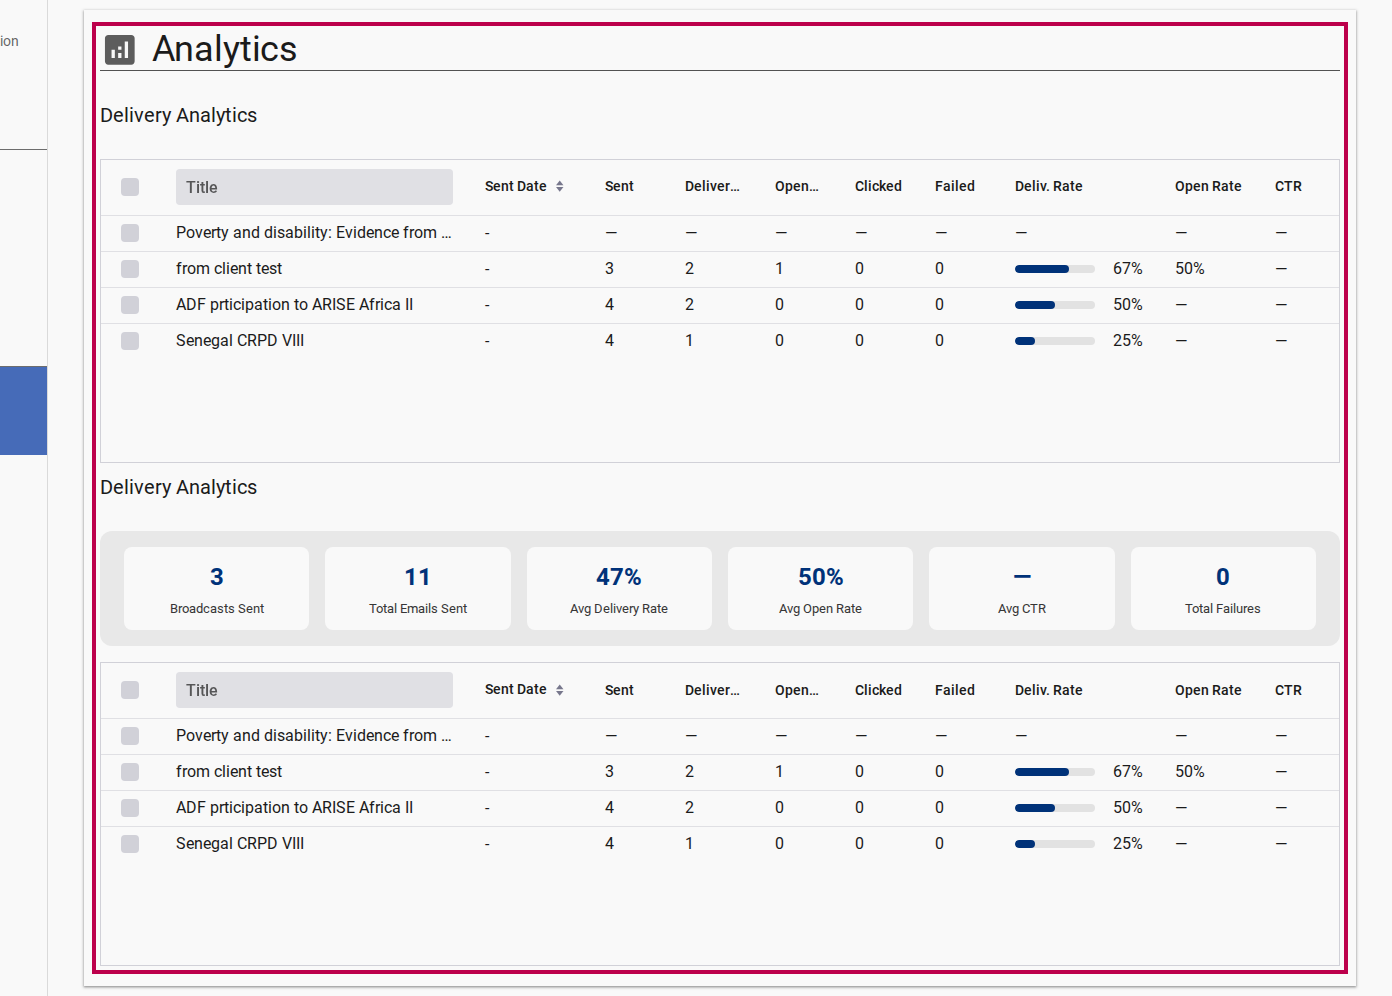
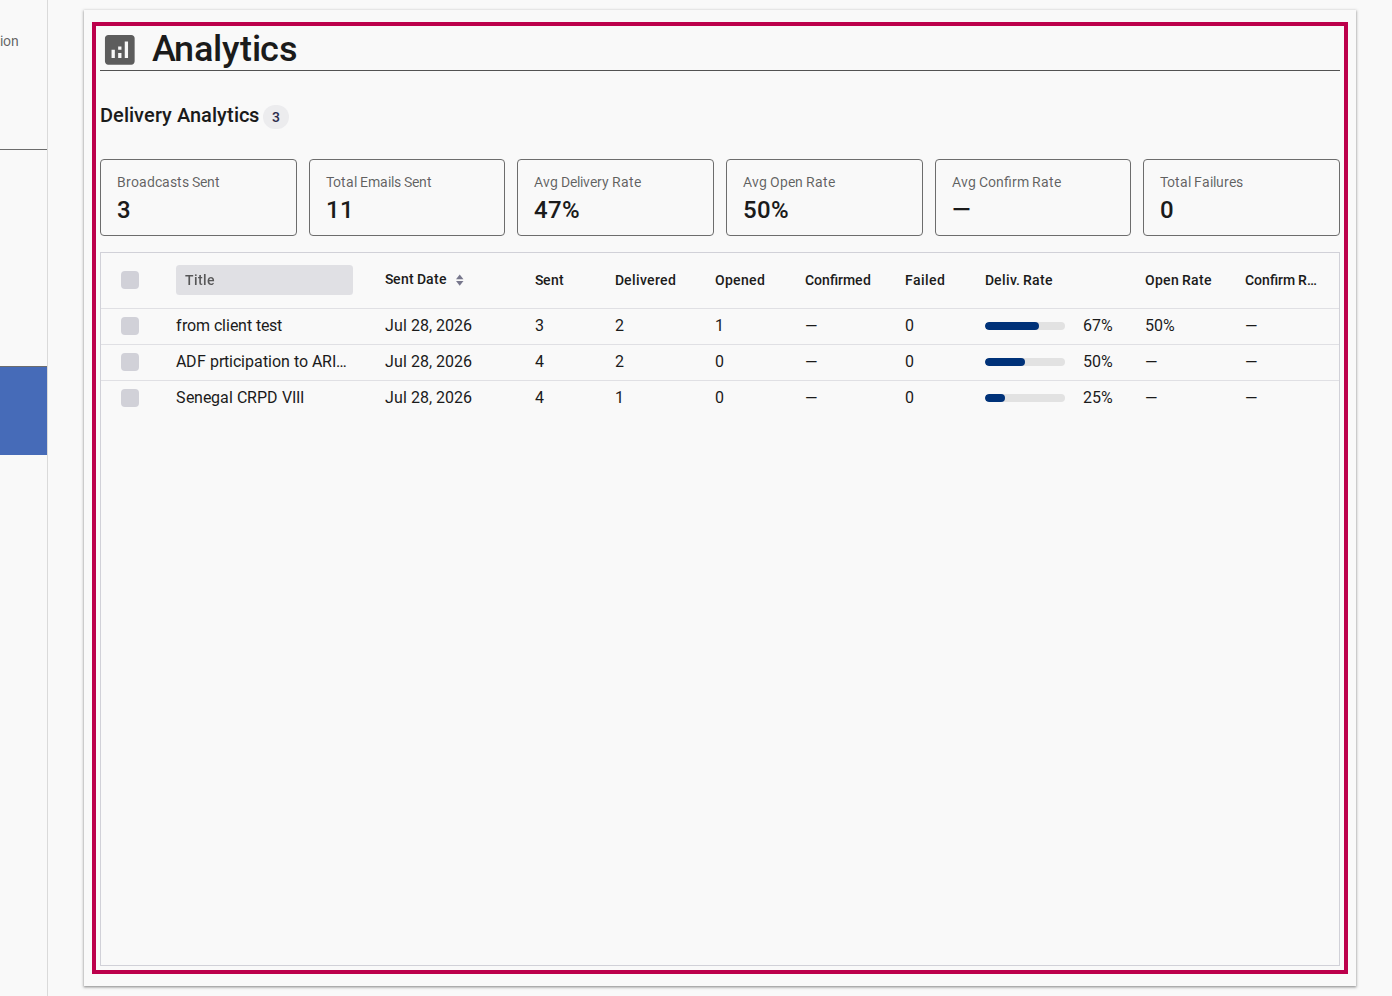
docs(listserv): document confirm-receipt links and analytics
Explain the per-broadcast confirmation option, the Confirmed and Confirm Rate
columns, the open-vs-confirmed distinction, and the staff-only list of who
confirmed. Refresh the admin reference tables to match the current dashboard.

diff --git a/src/listserv/how-to/analyzing-performance.spec.ts b/src/listserv/how-to/analyzing-performance.spec.ts
@@ -1,4 +1,4 @@
-import { Locator, test } from '@playwright/test'
+import { expect, Locator, Page, test } from '@playwright/test'
 import { Context } from '../../Context.ts'
 import { initializePage } from '../../utils/initializePage.ts'
 import { baseUrl, listservAppPath } from '../reference/constants.ts'
@@ -7,16 +7,25 @@ const mainPath = 'docs/app/listserv/how-to'
 
 let locator: Locator
 
-test.describe('Listserv How-To: Analyzing Broadcast Performance', () => {
+/**
+ * The grid reads its rows from Firestore after the route renders, so wait for
+ * a seed row instead of a fixed delay. The assertion uses the configured
+ * 5-second expect timeout.
+ */
+const waitForRows = async (page: Page) => {
+  await expect(page.getByRole('gridcell', { name: /from client test/ }).first()).toBeVisible()
+  await page.waitForTimeout(500)
+}
 
+test.describe('Listserv How-To: Analyzing Broadcast Performance', () => {
   test('How to view the analytics dashboard', async ({ page }) => {
     const context = new Context(mainPath, page)
     context.setName('viewing-analytics-dashboard')
     await initializePage(page, baseUrl, `${listservAppPath}/admin/analytics`)
-    await page.waitForTimeout(500)
+    await waitForRows(page)
 
     // Step 1: View the aggregate summary header
-    locator = page.locator('listserv-admin-analytics .aggregate-header')
+    locator = page.locator('listserv-admin-analytics .aggregate-summary')
     await context.annotatedScreenshot(locator, 'step-1-aggregate-summary')
 
     // Step 2: View the per-broadcast delivery table
@@ -28,7 +37,7 @@ test.describe('Listserv How-To: Analyzing Broadcast Performance', () => {
     const context = new Context(mainPath, page)
     context.setName('viewing-broadcast-list-stats')
     await initializePage(page, baseUrl, `${listservAppPath}/admin/broadcast`)
-    await page.waitForTimeout(500)
+    await waitForRows(page)
 
     // Step 1: View the broadcast list with delivery stat columns
     locator = page.locator('listserv-admin-broadcast')
@@ -39,28 +48,24 @@ test.describe('Listserv How-To: Analyzing Broadcast Performance', () => {
     const context = new Context(mainPath, page)
     context.setName('viewing-delivery-stats')
     await initializePage(page, baseUrl, `${listservAppPath}/admin/broadcast`)
-    await page.waitForTimeout(500)
+    await waitForRows(page)
 
-    // Step 1: Click on a sent broadcast to view its detail
-    const gridCell = page.locator('vaadin-grid-cell-content').first()
+    // Step 1: Open a sent broadcast from its title cell
+    const gridCell = page.getByRole('gridcell', { name: /from client test/ }).first()
     await context.annotatedScreenshot(gridCell, 'step-1-click-broadcast')
-    await gridCell.click()
-    await page.waitForTimeout(500)
+    await gridCell.dblclick()
+    await page.waitForTimeout(1500)
 
     // Step 2: View the broadcast detail with analytics
     locator = page.locator('listserv-broadcast-detail')
     await context.annotatedScreenshot(locator, 'step-2-broadcast-detail-analytics')
-
-    // Step 3: View lifecycle state and statistics
-    locator = page.locator('actor-actions')
-    await context.annotatedScreenshot(locator, 'step-3-broadcast-lifecycle-state')
   })
 
   test('How to view aggregate delivery metrics', async ({ page }) => {
     const context = new Context(mainPath, page)
     context.setName('viewing-aggregate-metrics')
     await initializePage(page, baseUrl, `${listservAppPath}/admin/analytics`)
-    await page.waitForTimeout(500)
+    await waitForRows(page)
 
     // Step 1: Navigate to the analytics dashboard
     locator = page.locator('listserv-admin-analytics')

diff --git a/docs/app/listserv/how-to/analyzing-broadcast-performance.md b/docs/app/listserv/how-to/analyzing-broadcast-performance.md
@@ -1,43 +1,92 @@
 ---
-description: How administrators view per-broadcast analytics including delivery rates, open rates, response counts, and language segmentation.
+description: How channel administrators read delivery, open, confirmation and failure metrics for sent broadcasts, and see who confirmed receipt.
 ---
 
 # Analyzing Broadcast Performance
 
-Per-broadcast analytics enable channel administrators to track subscriber engagement, verify delivery health, and compare language segment performance.
+The analytics page reports, for every sent broadcast, how many addresses were targeted, delivered, opened and confirmed, and how many never received the message. Use it to check delivery health and to see how many recipients acted on the message.
 
 ---
 
-## Step 1: Open Broadcast Analytics
+## Step 1: Open the Analytics Page
 
-1. Navigate to **Admin** > **Broadcasts**.
-2. Locate a broadcast with status `sent`.
-3. Click the broadcast row to expand its details and analytics panel.
+1. Sign in to the Listserv application.
+2. Select **Admin** > **Analytics**.
+
+The page lists every broadcast that reached the `sent` state in the current channel. Drafts, rejected broadcasts and broadcasts still in moderation are not listed.
 
 <figure>
-  <img src="./assets/viewing-broadcast-list-stats/step-1-broadcasts-grid-with-stats.png" alt="Broadcast Analytics Grid">
-  <figcaption>Broadcast Grid showing sent status and response metrics</figcaption>
+  <img src="./assets/viewing-aggregate-metrics/step-1-analytics-dashboard.png" alt="Analytics page with summary tiles and a row per sent broadcast">
+  <figcaption>The channel analytics page: summary tiles and one row per sent broadcast. Confirmed and Confirm Rate show — because none of these broadcasts asked for confirmation.</figcaption>
+</figure>
+
+::: info An open is not a read
+The **Opened** figure comes from a tracking image. Mail servers, security scanners and privacy proxies fetch that image without a person seeing the message, and email clients may prefetch it. A high open count is therefore an upper bound, not proof of reading. **Confirmed** is the human signal: a recipient pressed a button on a page reached from the email.
+:::
+
+---
+
+## Step 2: Read the Summary
+
+The summary tiles at the top of the page summarize every listed broadcast:
+
+| Tile | What it measures |
+| --- | --- |
+| **Broadcasts Sent** | Number of sent broadcasts in the channel. |
+| **Total Emails Sent** | Sum of the unique subscriber addresses targeted across those broadcasts. |
+| **Avg Delivery Rate** | Average of `delivered / sent` across broadcasts with data. |
+| **Avg Open Rate** | Average of `opened / delivered`. Image fetches count. |
+| **Avg Confirm Rate** | Average of `confirmed / delivered`, over the broadcasts that asked for confirmation. |
+| **Total Failures** | Recipients that never received the message, after the provider's retries. |
+
+<figure>
+  <img src="./assets/viewing-analytics-dashboard/step-1-aggregate-summary.png" alt="Analytics summary tiles including Avg Confirm Rate">
+  <figcaption>The summary tiles. A dash for Avg Confirm Rate means no sent broadcast in this channel has asked for confirmation yet.</figcaption>
 </figure>
 
 ---
 
-## Step 2: Key Performance Indicators (KPIs)
+## Step 3: Read a Broadcast Row
 
-The performance dashboard reports real-time metrics updated via Mailgun webhooks:
+| Column | What it shows |
+| --- | --- |
+| **Sent Date** | When the broadcast was dispatched. |
+| **Sent** | Unique subscriber addresses targeted at dispatch. It is not a count of provider delivery events. |
+| **Delivered** | Addresses whose mail server accepted the message. Delivery is not the same as reaching the inbox: a message can be filed as spam or quarantined afterwards. |
+| **Opened** | Addresses whose mail client fetched the tracking image, counted once per recipient. Scanners and proxies fetch it too. |
+| **Confirmed** | Addresses that pressed the confirm-receipt link. Shown only for broadcasts that asked for confirmation; **—** otherwise. |
+| **Failed** | Addresses that never received the message. Temporary retries that eventually delivered are not counted. |
+| **Deliv. Rate** | `delivered / sent`. |
+| **Open Rate** | `opened / delivered`. |
+| **Confirm Rate** | `confirmed / delivered`, for broadcasts that asked for confirmation; **—** otherwise. |
+
+A confirm rate much lower than the open rate is expected. The two columns answer different questions: the open rate is a rough upper bound, while the confirm rate is a floor on the number of people who saw the message.
+
+---
+
+## Step 4: See Who Confirmed
+
+For a broadcast that asked for confirmation, expand its row. The detail lists everyone who pressed the button, with their name, address and confirmation time, under a header such as "9 confirmed of 13 delivered".
+
+Only channel owners and editors can read the confirmation list.
+
+::: info Confirmation is optional per broadcast
+The sender ticks **Add a 'confirm you received this' link** while composing or editing a broadcast. Broadcasts sent before the feature, and broadcasts that did not opt in, have no link, so Confirmed and Confirm Rate show **—** for them.
+:::
+
+---
+
+## Step 5: Review Replies
+
+Replies to a broadcast are threaded under it and counted in the **Responses** column on **Admin** > **Broadcasts**. Expanding the row there shows the full response thread. A reply is a stronger signal than a confirmation, but only a small share of recipients reply.
 
 <figure>
-  <img src="./assets/viewing-aggregate-metrics/step-1-analytics-dashboard.png" alt="Channel Analytics Summary Dashboard">
-  <figcaption>Aggregate channel analytics dashboard displaying delivery rates and campaign performance metrics</figcaption>
+  <img src="./assets/viewing-broadcast-list-stats/step-1-broadcasts-grid-with-stats.png" alt="Broadcast list with delivery columns and response counts">
+  <figcaption>The broadcast list: delivery counts, response counts and the rate columns. Open the row for the email as subscribers received it and the response thread.</figcaption>
 </figure>
 
-- **Total Recipients**: Total subscriber accounts included in the send list
-- **Delivery Rate (%)**: Percentage of emails successfully delivered to subscriber mailboxes
-- **Open Rate (%)**: Percentage of delivered messages opened by recipients, counted once per recipient regardless of how many times they reopen the email
-- **Bounces / Failures**: Total permanently or temporarily rejected email addresses
-- **Response Count**: Number of threaded subscriber replies attached to this broadcast. Expanding the grid row reveals the full flat response thread.
-
-::: info Click Tracking Disabled
-In accordance with our privacy-first principles and [ADR 0002](../explanation/REF.md), link click tracking is disabled. Broadcast links are delivered directly as authored without intermediate tracking redirects.
+::: info Click tracking disabled
+In accordance with our privacy-first principles and [ADR 0002](../explanation/REF.md), link click tracking is disabled. Broadcast links are delivered directly as authored without intermediate tracking redirects, so the dashboard does not report clicks or a click-through rate.
 :::
 
 ---
@@ -47,3 +96,4 @@ In accordance with our privacy-first principles and [ADR 0002](../explanation/RE
 - [Creating & Sending Broadcasts](./creating-and-sending-broadcasts.md)
 - [Mailing List & Digest Engine Explanation](../explanation/mailing-list-and-digest-architecture.md)
 - [Broadcast Responses & Threading Explanation](../explanation/broadcast-responses-threading.md)
+- [Channel Settings Reference](../reference/settings/index.md)

diff --git a/docs/app/listserv/reference/admin/index.md b/docs/app/listserv/reference/admin/index.md
@@ -47,12 +47,14 @@ Open a row to read the full post before deciding. The category and score help tr
 | Column | What it shows |
 | --- | --- |
 | **Title** | The broadcast subject. |
-| **Status** | Draft, submitted, approved, sending, sent or rejected. |
-| **Origin** | Whether an administrator wrote it or a community member submitted it. |
-| **Sent date** | When dispatch completed. |
+| **Status** | Draft, submitted, detecting language, translating, moderated, rejected, sending or sent. |
+| **Host** | Whether an administrator composed it in the app or a subscriber submitted it by email. |
+| **Created** | When the broadcast document was created. |
 | **Responses** | The number of subscriber replies in the thread. |
+| **Delivered / Opened / Failed** | Per-recipient counts from the delivery webhooks. |
+| **Deliv. Rate / Open Rate** | `delivered / sent` and `opened / delivered`. |
 
-Expand a row for the broadcast editor, the language versions and the delivery and open metrics.
+Expand a row for the broadcast editor, the email as subscribers receive it, and the full response thread.
 
 ## Subscribers
 
@@ -78,14 +80,30 @@ Administrators can change status, delivery mode and vacation mode for an individ
   <figcaption>Channel-level delivery and engagement metrics.</figcaption>
 </figure>
 
-| Metric | What it measures |
-| --- | --- |
-| **Total sent** | Broadcasts dispatched across the channel. |
-| **Delivery rate** | Share of dispatched messages accepted by recipient servers. |
-| **Open rate** | Share of delivered broadcasts opened, counting each recipient once per broadcast. |
-| **Responses** | Replies received across broadcasts. |
+The summary tiles cover every sent broadcast in the channel:
 
-Metrics can be filtered by language to compare engagement between language communities. Click tracking is not collected, so there is no click or click-through figure.
+| Tile | What it measures |
+| --- | --- |
+| **Broadcasts Sent** | Number of sent broadcasts. |
+| **Total Emails Sent** | Sum of unique subscriber addresses targeted. |
+| **Avg Delivery Rate** | Average of `delivered / sent`. |
+| **Avg Open Rate** | Average of `opened / delivered`; the tracking-image fetches behind this figure include scanners and proxies. |
+| **Avg Confirm Rate** | Average of `confirmed / delivered`, over the broadcasts that asked for confirmation. |
+| **Total Failures** | Recipients that never received the message. |
+
+The grid below the tiles lists each sent broadcast with:
+
+| Column | What it shows |
+| --- | --- |
+| **Sent Date** | When dispatch completed. |
+| **Sent** | Unique addresses targeted at dispatch. |
+| **Delivered** | Addresses accepted by their mail server. |
+| **Opened** | Addresses whose client fetched the tracking image, counted once per recipient. |
+| **Confirmed** | Addresses that pressed the confirm-receipt link; **—** when the broadcast did not ask. |
+| **Failed** | Addresses that never received the message. |
+| **Deliv. Rate / Open Rate / Confirm Rate** | The three ratios above, with **—** when the denominator is missing. |
+
+Expanding a confirmation broadcast lists the recipients who pressed the button, with a "confirmed of delivered" count. Channel owners and editors can read that list; moderators cannot. Click tracking is not collected, so there is no click or click-through figure.
 
 ## Related Content
 

diff --git a/docs/app/listserv/how-to/creating-and-sending-broadcasts.md b/docs/app/listserv/how-to/creating-and-sending-broadcasts.md
@@ -32,6 +32,11 @@ Channel staff (`owner`, `editor`, `moderator`) and the channel's signed-in subsc
 1. Enter the **Title** — the name the broadcast carries in the admin list.
 2. Enter the **Subject** — the email subject line subscribers receive.
 3. Compose the body using **Markdown**. Headings (`# Title`), bold (`**text**`), links (`[label](url)`), lists and blockquotes are supported.
+4. Optionally tick **Add a 'confirm you received this' link**. The email footer then asks recipients to confirm receipt, and the analytics page shows how many confirmed and who they are. Leave it off when you do not need that signal.
+
+::: tip Choose confirmation deliberately
+Confirmation is a human action: the recipient opens a page and presses a button. It is the only metric that distinguishes a person from a mail scanner or a privacy proxy fetching the tracking image. It asks the recipient for an extra step, so use it on broadcasts where reach matters, not on every routine message.
+:::
 
 ::: tip WCAG 2.1 AA Accessibility Defaults
 Broadcast emails are generated as semantic HTML with contrast ratios meeting WCAG 2.1 AA and fallback text styles for legacy email clients. Write descriptive link labels and use headings in order.
@@ -54,10 +59,10 @@ Broadcast emails are generated as semantic HTML with contrast ratios meeting WCA
 3. The broadcast lifecycle state updates:
    - `draft` → `submitted` → `detectingLanguage` → `translating` → `moderated`
    - A channel moderator **approves** (→ `sending` → `sent`) or **rejects** (→ `rejected`, returned to the author for editing).
-4. During `sending`, the background engine dispatches localized versions to channel subscribers via Mailgun mailing lists.
+4. During `sending`, the background engine dispatches localized versions to channel subscribers via Mailgun mailing lists. If you ticked the confirmation option, the engine adds the signed confirm-receipt link to the footer of the message; replies in a thread never carry it.
 
 ::: info Not yet available in the editor
-The broadcast model supports layout templates, a primary language and file attachments, but the compose and edit forms currently expose only title, subject and body.
+The broadcast model supports layout templates, a primary language and file attachments, but the compose and edit forms currently expose only title, subject, body and the confirmation option.
 :::
 
 ---

diff --git a/docs/app/listserv/how-to/REF.md b/docs/app/listserv/how-to/REF.md
@@ -16,6 +16,9 @@
 
 - `app/app-listserv/src/page/admin/broadcast-detail.ts`: Admin detail editor for creating, formatting, and submitting broadcasts.
 - `app/app-listserv/functions/src/machine/send.ts`: Server-side send actor program invoking Mailgun mailing list distribution and status updates.
+- `app/app-listserv/functions/src/machine/renderBroadcastBody.ts`: Builds the HTML and text footer, including the optional confirm-receipt link.
+- `lit-app/schema/listserv/model/Broadcast.ts`: Broadcast and receipt models; the `confirmReceipt` opt-in and the `confirmed` stat.
+- `lit-app/schema/listserv/confirm.ts`: Signed confirm-receipt link and its token input.
 
 ## Moderating Community Submissions - moderating-community-submissions.md
 
@@ -24,8 +27,14 @@
 
 ## Analyzing Broadcast Performance - analyzing-broadcast-performance.md
 
+- `app/app-listserv/src/page/admin/analytics.ts`: Analytics page with the summary tiles and the sent-only broadcast query.
+- `app/app-listserv/src/entity/AnalyticsEntity.ts`: Analytics grid columns (delivered, opened, confirmed, failed and rates) and the confirmation row detail.
+- `app/app-listserv/src/renderer/broadcast-receipts.ts`: Per-broadcast list of recipients who confirmed receipt.
 - `app/app-listserv/src/page/admin/broadcast.ts`: Admin broadcast list component rendering delivery stats, response counts, and grid row details.
+- `app/app-listserv/functions/src/service/SubscriptionServiceLive.ts`: Validates the confirm link and records the receipt and `stats.confirmed`.
+- `api/src/apps/listserv/confirmPage.ts`: Script-free public page whose POST button records a confirmation.
 - `app/app-listserv/docs/adr/0002-disable-click-tracking.md`: ADR documenting click tracking disablement.
+- `app/app-listserv/docs/adr/0003-confirm-receipt-links.md`: ADR documenting the confirm-receipt link as the human engagement signal.
 
 ## Importing a Team Audience - importing-a-team-audience.md
 

diff --git a/docs/app/listserv/reference/REF.md b/docs/app/listserv/reference/REF.md
@@ -12,6 +12,8 @@
 - `app/app-listserv/src/page/admin/welcome.ts`: Admin landing panel describing administrative functions.
 - `app/app-listserv/src/page/admin/moderation.ts`: Moderation Queue component filtering submitted broadcasts for review.
 - `app/app-listserv/src/page/admin/broadcast.ts`: Reactive grid component listing channel broadcasts and threaded responses.
+- `app/app-listserv/src/page/admin/analytics.ts`: Analytics page with summary tiles, the sent-only broadcast grid and the confirmation row detail.
+- `app/app-listserv/src/entity/AnalyticsEntity.ts`: Column, rate and confirmation-detail configuration for the analytics grid.
 - `app/app-listserv/src/page/admin/subscriber.ts`: Subscriber management grid showing status and delivery lists.
 
 ## Channel Settings Specification - settings/index.md

diff --git a/docs/app/listserv/reference/index.md b/docs/app/listserv/reference/index.md
@@ -20,6 +20,7 @@ Specifications for administrative dashboards guarded by team roles:
 - **Admin Welcome (`/admin/welcome`)**: Control panel landing page
 - **Moderation Queue (`/admin/moderation`)**: Community post review interface with AI widgets
 - **Broadcast List & Detail (`/admin/broadcast`)**: Broadcast creation, editing, and analytics
+- **Analytics (`/admin/analytics`)**: Sent-broadcast delivery, open and confirmation metrics
 - **Subscribers List (`/admin/subscriber`)**: Subscriber status and delivery list auditing
 
 ### 3. [Channel Settings](./settings/index.md)

diff --git a/docs/app/listserv/how-to/index.md b/docs/app/listserv/how-to/index.md
@@ -39,7 +39,7 @@ How-to guides are recipes: each one solves a specific task for a subscriber or a
 ### Analytics & Settings
 
 - **[Analyzing Broadcast Performance](./analyzing-broadcast-performance.md)**
-  Read delivery and open rates, response counts, and language-segmented metrics.
+  Read delivery, open and confirmation metrics, find out who confirmed receipt, and review replies.
 - **[Configuring Channel Settings](./configuring-channel-settings.md)**
   Configure identity, active languages, bounce cleaning, rate limits and access roles.
 
